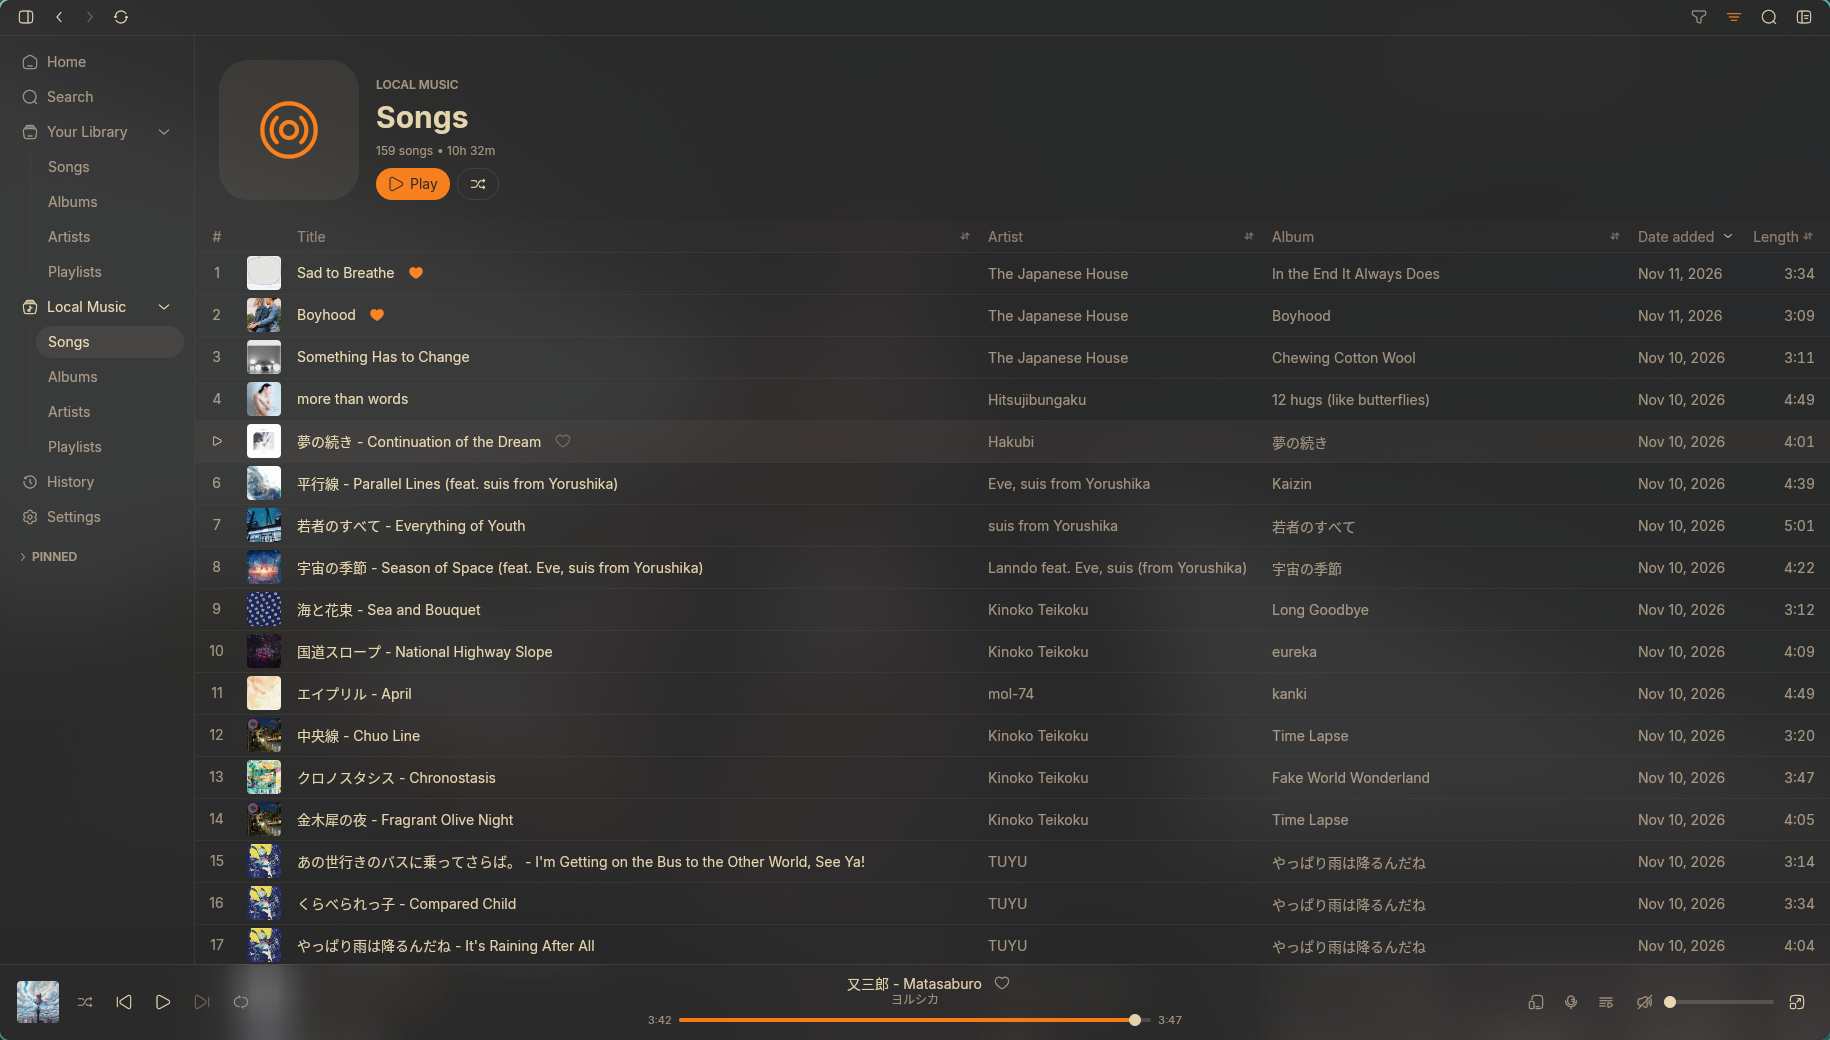
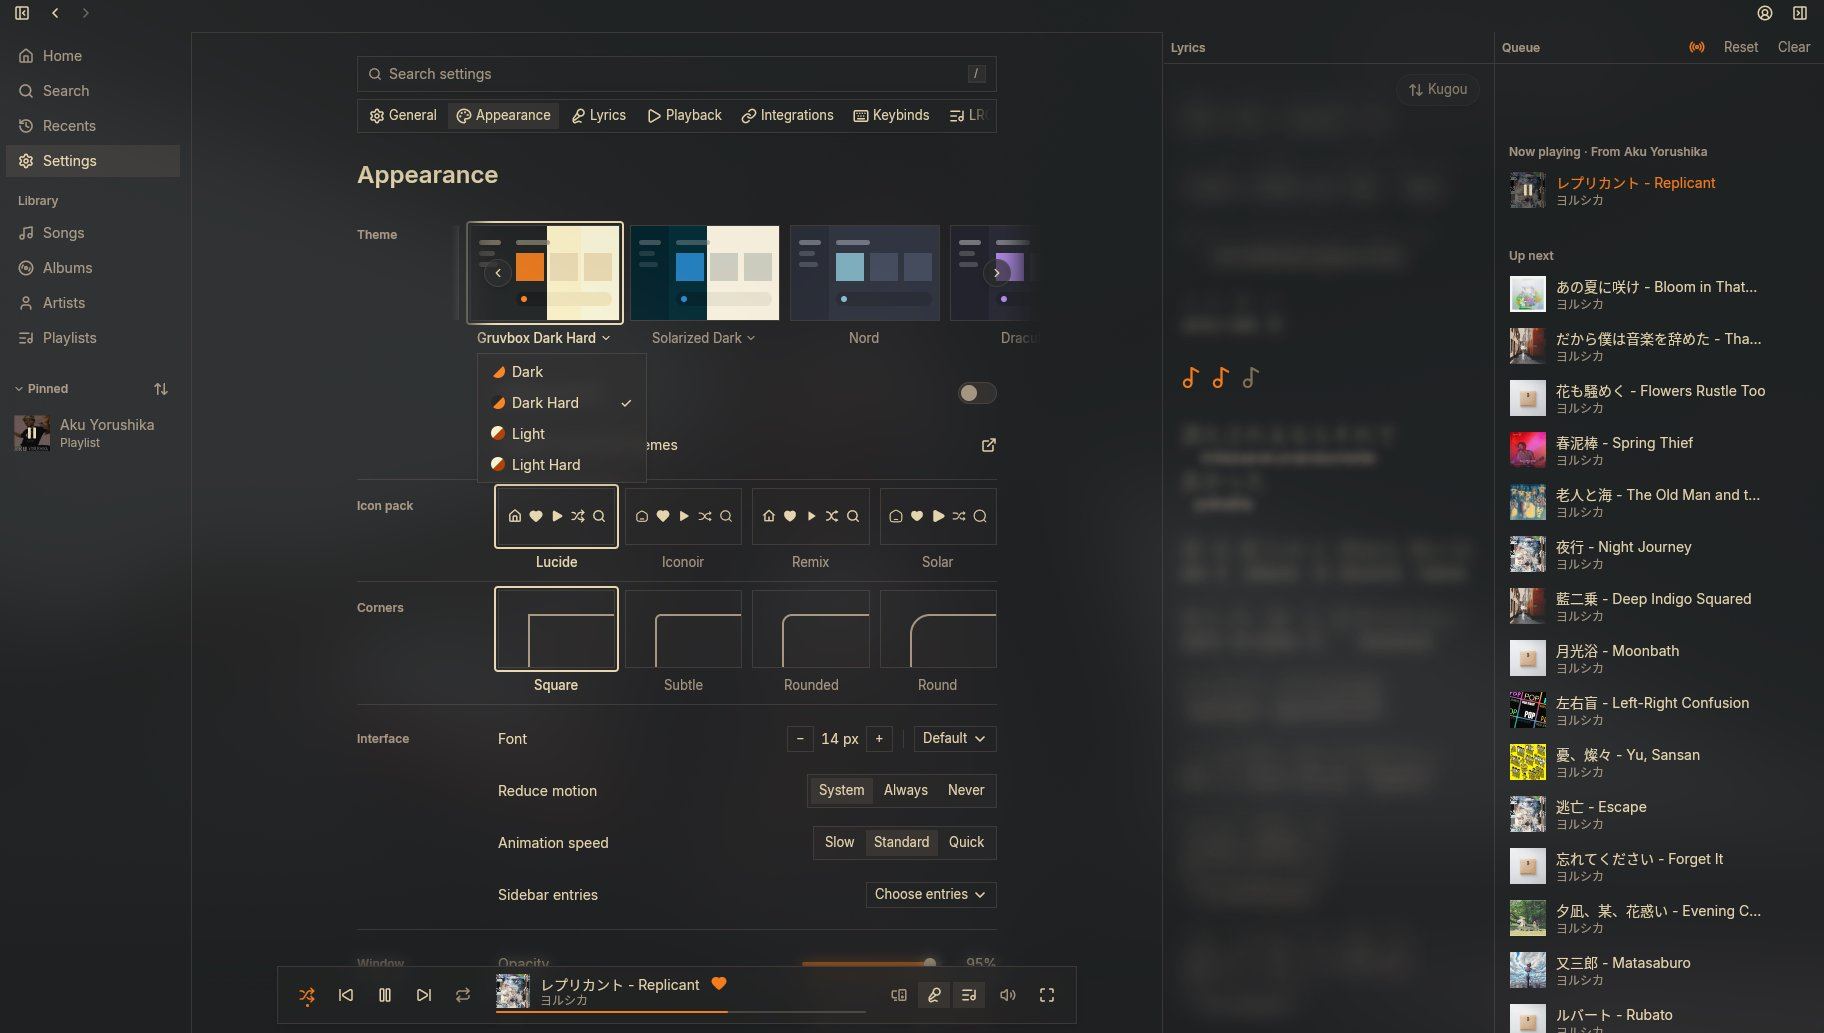
docs(readme): update screenshots and remove audio/lrc rows

diff --git a/README.md b/README.md
@@ -24,22 +24,12 @@
     </tr>
     <tr>
       <td width="50%">
-        <p align="center"><b>Local Albums Grid & Dual Preview (Queue + Lyrics)</b></p>
-        <img alt="Oto Local Albums Grid & Dual Preview" src="./.github/screenshots/albums.jpg" />
+        <p align="center"><b>Playlists Grid, Island Bar & Dual Preview (Lyrics + Queue)</b></p>
+        <img alt="Oto Playlists Grid & Dual Preview" src="./.github/screenshots/albums.jpg" />
       </td>
       <td width="50%">
         <p align="center"><b>High-Density Tracklist & Playback (Catppuccin Mocha)</b></p>
         <img alt="Oto Local Library Tracklist" src="./.github/screenshots/playlist.jpg" />
-      </td>
-    </tr>
-    <tr>
-      <td width="50%">
-        <p align="center"><b>Audio Engine, Resampling & Output Chain</b></p>
-        <img alt="Oto Audio Engine Settings" src="./.github/screenshots/settings.jpg" />
-      </td>
-      <td width="50%">
-        <p align="center"><b>Built-in LRC Studio & Romaji Synchronization</b></p>
-        <img alt="Oto Built-in LRC Studio" src="./.github/screenshots/lrc-studio.jpg" />
       </td>
     </tr>
   </table>
